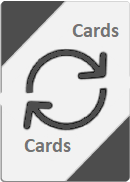
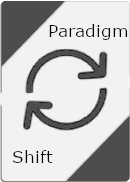
Added russian roulette card. Small fix to directions.

Changed region(s): [[0.0923, 0.7418, 0.5538, 0.9066], [0.3692, 0.1099, 0.9846, 0.2198]]

diff --git a/ClientApp/src/app/_components/waiting-room/waiting-room.component.html b/ClientApp/src/app/_components/waiting-room/waiting-room.component.html
@@ -100,7 +100,7 @@
 </div>
 
 <div class="row">
-  <div class="col-12  fill-viewport-max-100 scrollable-div-y bg-white">
+  <div class="col-12  fill-viewport-max-100 fill-viewport-min-50 scrollable-div-y bg-white">
     <app-game-tabs></app-game-tabs>
   </div>
 </div>

diff --git a/ClientApp/src/app/_models/enums.ts b/ClientApp/src/app/_models/enums.ts
@@ -40,7 +40,8 @@ export enum CardValue {
   paradigmShift = 24,
   deflect = 25,
   inspectHand = 26,
-  graveDigger = 27
+  graveDigger = 27,
+  russianRoulette = 28
 }
 
 export enum Direction {

diff --git a/Models/Game.cs b/Models/Game.cs
@@ -56,7 +56,7 @@ namespace Uno.Models
                 }
                 else if (card.Value == CardValue.DrawFour)
                 {
-                    var targetedPlayer = GetNextPlayerToPlay();
+                    var targetedPlayer = GetNextPlayer(PlayerToPlay);
                     var messageToLog = $"Player {player.User.Name} targeted player {targetedPlayer.User.Name} with +4 card.";
                     var deflectCard = targetedPlayer.Cards.FirstOrDefault(x => x.Value == CardValue.Deflect);
                     if (deflectCard == null)
@@ -145,8 +145,8 @@ namespace Uno.Models
                     });
                     // now randomize color
                     Random random = new Random();
-                    var numbers = new int[] { 1, 2, 3, 4 };
-                    int randomColor = numbers[(random.Next(4))];
+                    var colorIds = new int[] { 1, 2, 3, 4 };
+                    int randomColor = colorIds[(random.Next(4))];
                     LastCardPlayed.Color = (CardColor)randomColor;
                     turnResult.MessagesToLog.Add($"Player {player.User.Name} has played discard color card. All players discarded {pickedCardColor} and a random color has been assigned.");
 
@@ -200,19 +200,25 @@ namespace Uno.Models
                 else if (card.Value == CardValue.ParadigmShift)
                 {
                     List<Card> firstCardsBackup = null;
+                    var loopingPlayer = PlayerToPlay;
+
                     for (int i = 0; i < Players.Count; i++)
                     {
                         if (i == 0)
-                            firstCardsBackup = Players[i].Cards.ToList();
+                            firstCardsBackup = loopingPlayer.Cards.ToList();
+
                         if (i != Players.Count - 1)
                         {
-                            Players[i].Cards = Players[i + 1].Cards;
+                            loopingPlayer.Cards = GetNextPlayer(loopingPlayer).Cards;
                         }
                         else
                         {
-                            Players[i].Cards = firstCardsBackup;
+                            loopingPlayer.Cards = firstCardsBackup;
                         }
+                        loopingPlayer = GetNextPlayer(loopingPlayer);
                     }
+
+
                     turnResult.MessagesToLog.Add($"Player {player.User.Name} played paradigm shift card. Every player exchanged their hand with the next player.");
                 }
                 else if (card.Value == CardValue.GraveDigger)
@@ -221,12 +227,32 @@ namespace Uno.Models
                     DiscardedPile.Remove(cardToDig);
                     turnResult.MessagesToLog.Add($"Player {player.User.Name} digged card {cardToDig.Color.ToString()} {cardToDig.Value.ToString()} from the discarded pile.");
                 }
+                else if (card.Value == CardValue.RussianRoulette)
+                {
+                    var messageToLog = $"Player {player.User.Name} played Russian Roulette. Every player rolled a dice.";
+                    var playerRolling = GetNextPlayer(PlayerToPlay);
+                    Random random = new Random();
+
+                    while (true)
+                    {
+                        int rolledNumber = random.Next(1, 7);
+                        messageToLog += $" {playerRolling.User.Name}: {rolledNumber}.";
+                        if (rolledNumber == 1)
+                        {
+                            messageToLog += $" {playerRolling.User.Name} drew 6 cards.";
+                            DrawCard(playerRolling, 6, false);
+                            break;
+                        }
+                        playerRolling = GetNextPlayer(playerRolling);
+                    }
+                    turnResult.MessagesToLog.Add(messageToLog);
+                }
             }
             else
             {
                 if (card.Value == CardValue.DrawTwo)
                 {
-                    var targetedPlayer = GetNextPlayerToPlay();
+                    var targetedPlayer = GetNextPlayer(PlayerToPlay);
                     var messageToLog = $"Player {player.User.Name} targeted player {targetedPlayer.User.Name} with +2 card.";
                     var deflectCard = targetedPlayer.Cards.FirstOrDefault(x => x.Value == CardValue.Deflect);
                     if (deflectCard == null)
@@ -252,8 +278,8 @@ namespace Uno.Models
                 }
                 else if (card.Value == CardValue.Skip)
                 {
-                    turnResult.MessagesToLog.Add($"Player {player.User.Name} played skip turn. Player {GetNextPlayerToPlay().User.Name} was skipped");
-                    PlayerToPlay = GetNextPlayerToPlay();
+                    turnResult.MessagesToLog.Add($"Player {player.User.Name} played skip turn. Player {GetNextPlayer(PlayerToPlay).User.Name} was skipped");
+                    PlayerToPlay = GetNextPlayer(PlayerToPlay);
                 }
                 else if (card.Value == CardValue.StealTurn)
                 {
@@ -279,7 +305,7 @@ namespace Uno.Models
                 return turnResult;
             }
 
-            PlayerToPlay = GetNextPlayerToPlay();
+            PlayerToPlay = GetNextPlayer(PlayerToPlay);
             return turnResult;
         }
 
@@ -287,6 +313,7 @@ namespace Uno.Models
 
         public void StartNewGame()
         {
+            Random random=new Random();
             Card lastCardDrew;
             DiscardedPile = new List<Card>();
             Deck = new Deck(GameSetup.GameMode);
@@ -297,7 +324,7 @@ namespace Uno.Models
             } while (lastCardDrew.Color == CardColor.Wild);
             LastCardPlayed = new LastCardPlayed(lastCardDrew.Color, lastCardDrew.Value, lastCardDrew.ImageUrl, string.Empty);
             Direction = Direction.Right;
-            PlayerToPlay = Players.First();
+            PlayerToPlay = Players[random.Next(Players.Count)];
             Players.ForEach(x => x.Cards = Deck.Draw(7));
             GameStarted = true;
             RoundEnded = false;
@@ -312,7 +339,7 @@ namespace Uno.Models
                 player.Cards.AddRange(Deck.Draw(deckCount));
                 Deck.Cards = DiscardedPile.ToList();
                 Deck.Shuffle();
-                DiscardedPile.RemoveRange(0,DiscardedPile.Count-1);
+                DiscardedPile.RemoveRange(0, DiscardedPile.Count - 1);
                 player.Cards.AddRange(Deck.Draw(count - deckCount));
             }
             else
@@ -323,7 +350,7 @@ namespace Uno.Models
             if (normalDraw)
             {
                 // if it's normalDraw then it's not a result of a wildcard
-                PlayerToPlay = GetNextPlayerToPlay();
+                PlayerToPlay = GetNextPlayer(PlayerToPlay);
             }
         }
 
@@ -331,9 +358,9 @@ namespace Uno.Models
         // -------------------------------------private------------
 
 
-        private Player GetNextPlayerToPlay()
+        private Player GetNextPlayer(Player player)
         {
-            var indexOfCurrentPlayer = Players.IndexOf(PlayerToPlay);
+            var indexOfCurrentPlayer = Players.IndexOf(player);
             if (Direction == Direction.Right)
             {
                 if (indexOfCurrentPlayer == Players.Count - 1)

diff --git a/Models/Deck.cs b/Models/Deck.cs
@@ -69,6 +69,7 @@ namespace Uno.Models
                 Cards.Add(new Card(CardColor.Wild, CardValue.Deflect));
                 Cards.Add(new Card(CardColor.Wild, CardValue.InspectHand));
                 Cards.Add(new Card(CardColor.Wild, CardValue.GraveDigger));
+                Cards.Add(new Card(CardColor.Wild, CardValue.RussianRoulette));
             }
         }
 

diff --git a/Enums/Enums.cs b/Enums/Enums.cs
@@ -38,7 +38,8 @@ namespace Uno.Enums
         ParadigmShift = 24,
         Deflect = 25,
         InspectHand = 26,
-        GraveDigger = 27
+        GraveDigger = 27,
+        RussianRoulette = 28
 
     }
 
